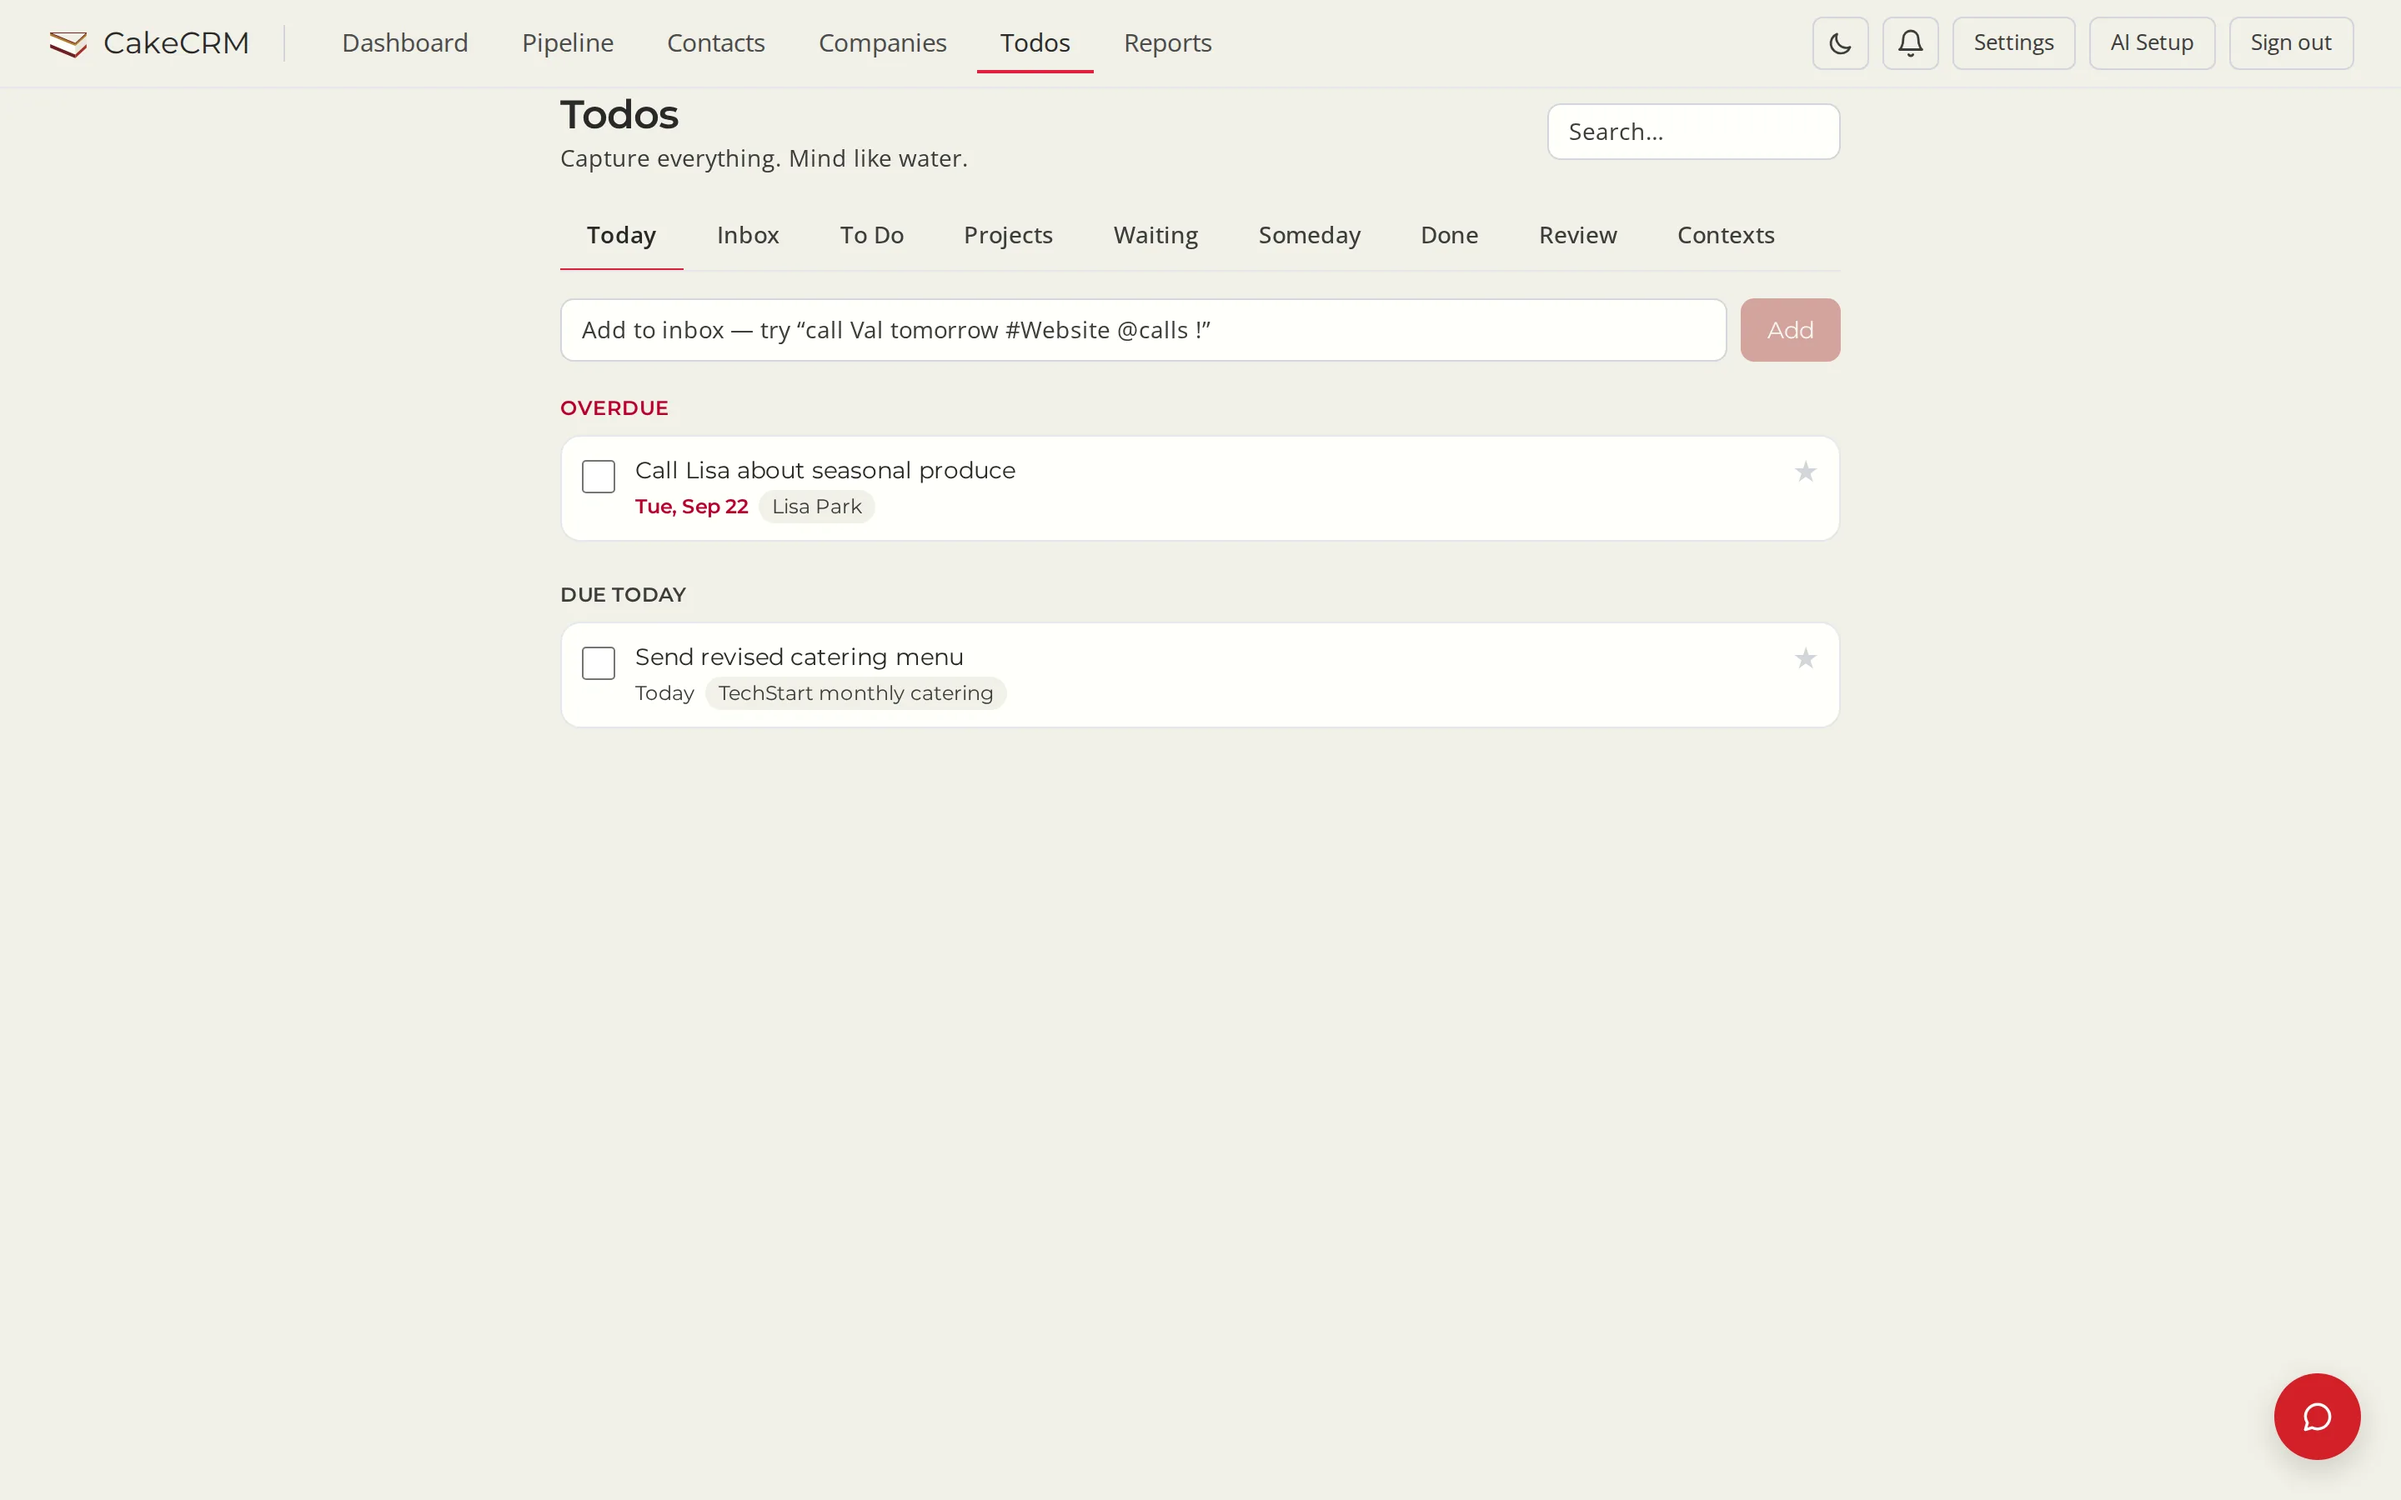
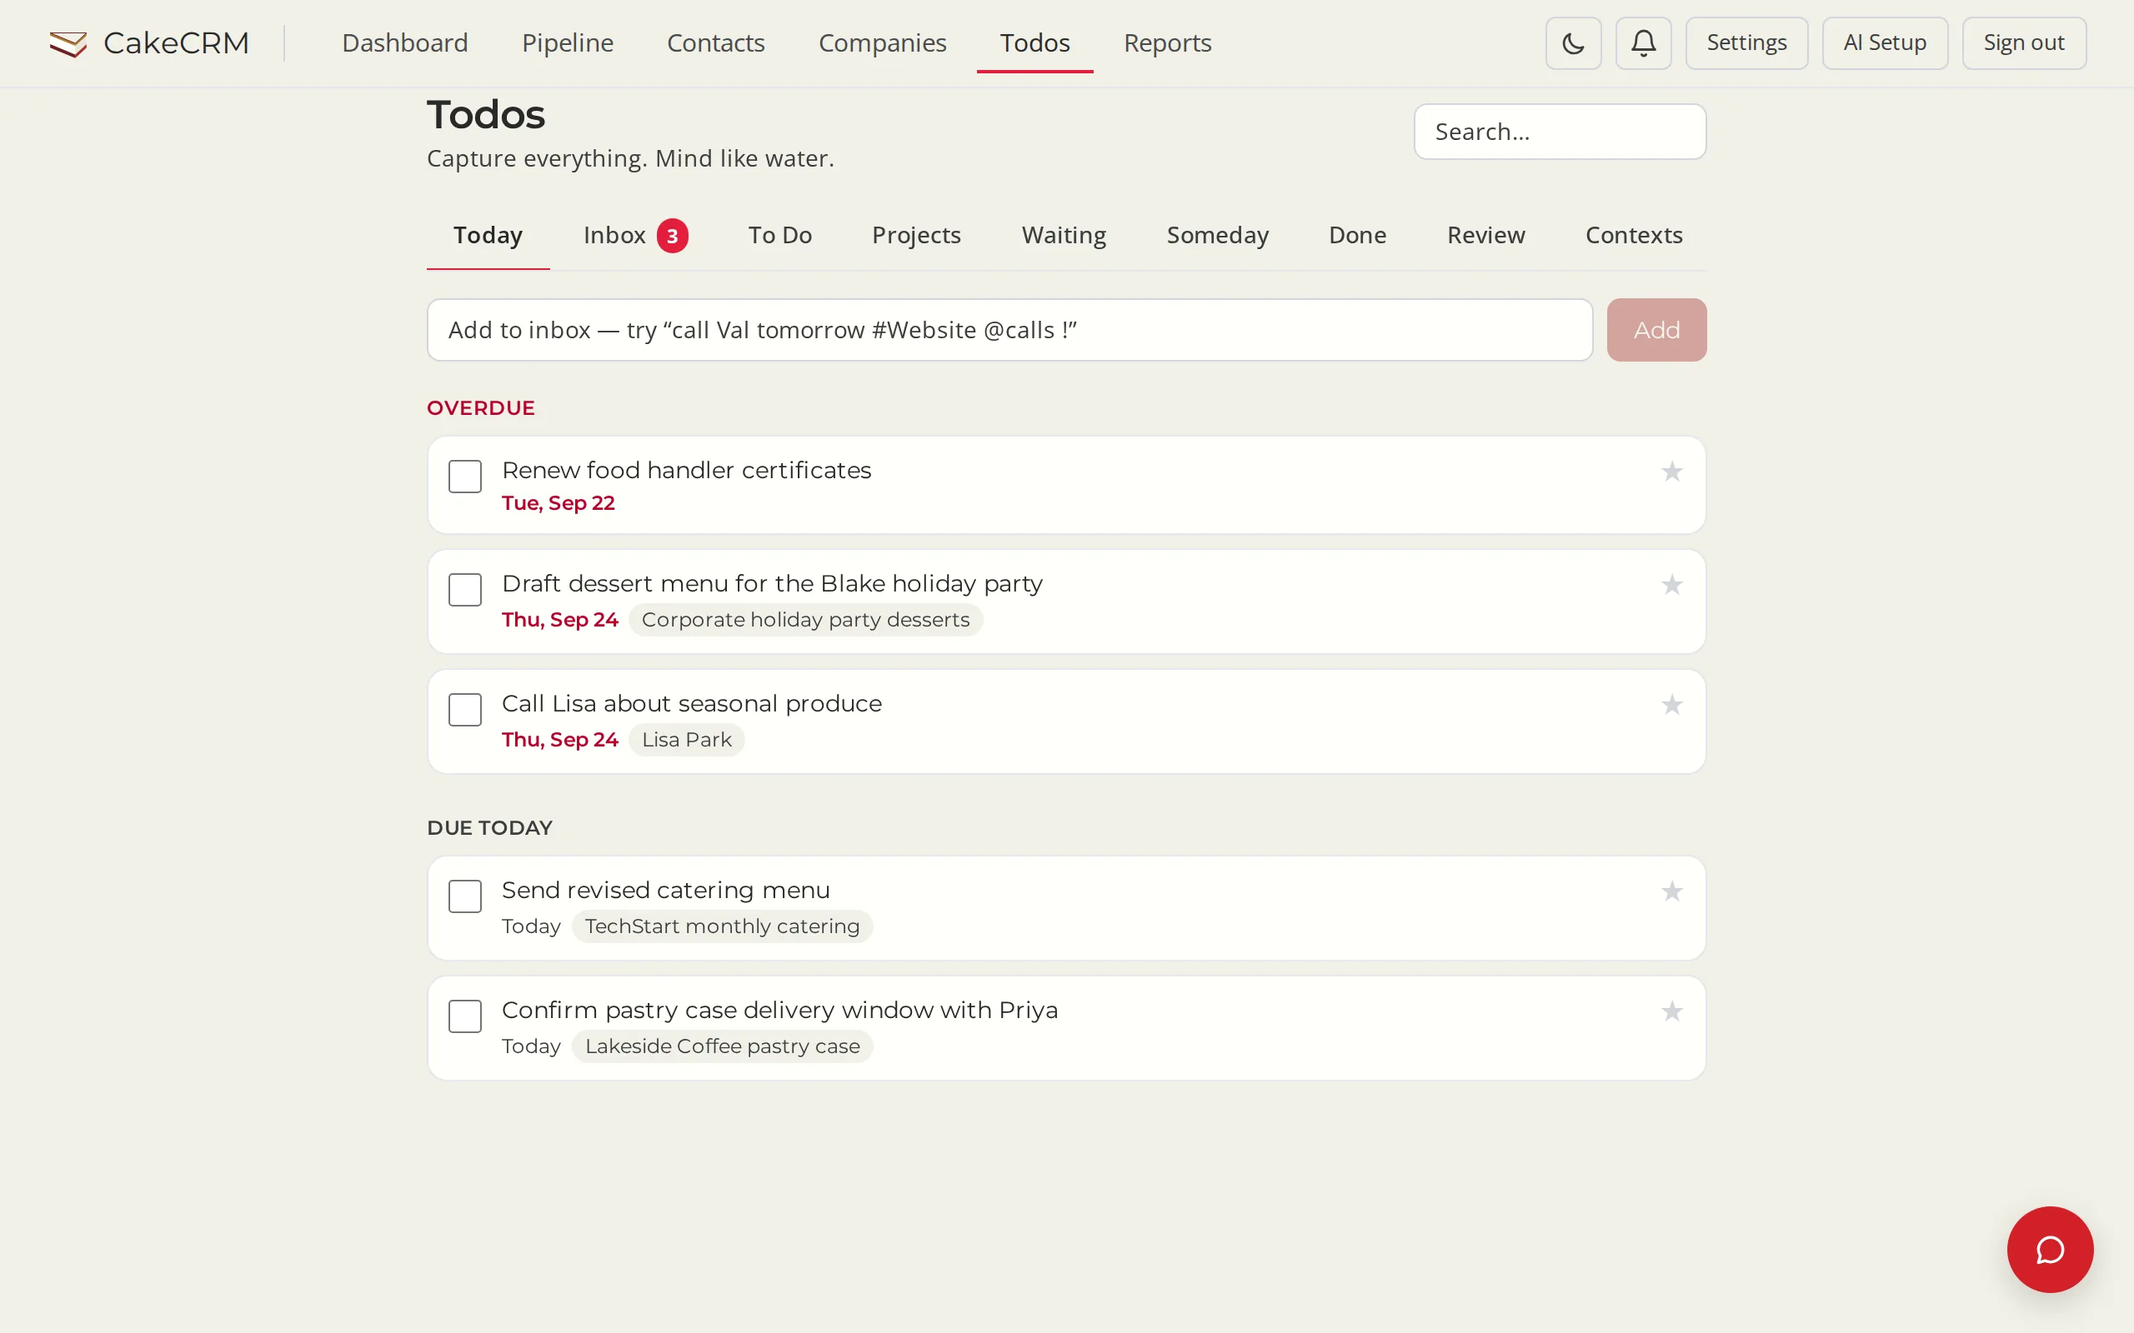
README screenshots: framed light and dark captures of the denser sample data
The old screenshots were mostly empty page: seven deals across a six-column
board, a Today list with nothing on it. They are re-shot on the #227/#228 seed
(four full columns, a hot deal gone quiet leading Today, three captures in the
inbox) and, for the README, framed in a browser window on the app's own page
ground in a light and a dark variant so GitHub's theme picks the right one.

- scripts/frame_readme_shots.py frames the website's 2x WebP masters and writes
  1x PNGs to docs/brand/readme/; the README selects between them with <picture>.
- The hero is the deal with Baker's answer beside it, shot at 1600x1000 so the
  drawer sits clear of the sheet; everything else is 1280x800.
- website/img/* are the same captures unframed (WebP at native 2x, PNG at 1x),
  with the width/height attributes and alt text updated to what they now show.
- AGENTS.md and docs/brand/README.md record the geometry and the regen step.

diff --git a/website/index.html b/website/index.html
@@ -67,7 +67,7 @@
       <figure class="frame">
         <picture>
           <source srcset="img/dashboard.webp" type="image/webp">
-          <img src="img/dashboard.png" width="1440" height="900" loading="lazy" alt="The CakeCRM dashboard: a Today panel listing an overdue call and a todo due today, above stat tiles for contacts, companies, pipeline value and overdue todos.">
+          <img src="img/dashboard.png" width="1280" height="800" loading="lazy" alt="The CakeCRM dashboard: a Today panel that leads with a hot deal gone quiet, then three overdue todos and one due today, above stat tiles for contacts, companies, pipeline value and overdue todos.">
         </picture>
       </figure>
     </div>
@@ -81,7 +81,7 @@
       <figure class="frame">
         <picture>
           <source srcset="img/pipeline.webp" type="image/webp">
-          <img src="img/pipeline.png" width="1440" height="900" loading="lazy" alt="The CakeCRM pipeline board: open deals as cards in Lead, Qualified, Proposal and Negotiation columns, each showing its value, probability, close date, lead score and last contact, with the Won and Lost stages hidden.">
+          <img src="img/pipeline.png" width="1280" height="800" loading="lazy" alt="The CakeCRM pipeline board: open deals as cards in Lead, Qualified, Proposal and Negotiation columns, each showing its value, probability, close date, lead score and last contact, with the Won and Lost stages hidden.">
         </picture>
       </figure>
     </div>
@@ -95,7 +95,7 @@
       <figure class="frame">
         <picture>
           <source srcset="img/deal.webp" type="image/webp">
-          <img src="img/deal.png" width="1440" height="900" loading="lazy" alt="A deal card open over the CakeCRM pipeline: title, value, stage, contact, company, owner, temperature, probability, lead score and expected close, then Call, Email, Meeting and Note buttons, the activity history and a note box.">
+          <img src="img/deal.png" width="1280" height="800" loading="lazy" alt="A deal card open over the CakeCRM pipeline: title, value, stage, contact, owner, temperature, probability, lead score and expected close, then Call, Email, Meeting and Note buttons, the activity history and a note box.">
         </picture>
       </figure>
     </div>
@@ -109,14 +109,14 @@
       <figure class="frame">
         <picture>
           <source srcset="img/todos-today.webp" type="image/webp">
-          <img src="img/todos-today.png" width="1440" height="900" loading="lazy" alt="The CakeCRM Todos page on its Today tab: an Overdue section with a call to make, a Due today section with a menu to send, each linked to its contact or deal, and an add-to-inbox box above them.">
+          <img src="img/todos-today.png" width="1280" height="800" loading="lazy" alt="The CakeCRM Todos page on its Today tab: an Overdue section with three todos, a Due today section with two more, each linked to its contact or deal, and an add-to-inbox box above them.">
         </picture>
         <figcaption>Today: what is overdue and what is due, nothing else.</figcaption>
       </figure>
       <figure class="frame">
         <picture>
           <source srcset="img/todos-inbox.webp" type="image/webp">
-          <img src="img/todos-inbox.png" width="1440" height="900" loading="lazy" alt="The CakeCRM Todos inbox showing one captured item on a triage card with three numbered steps: what kind of action, add detail, and set context, with two more items waiting below.">
+          <img src="img/todos-inbox.png" width="1280" height="800" loading="lazy" alt="The CakeCRM Todos inbox showing the first of three captured items on a triage card with three numbered steps: what kind of action, add detail, and set context.">
         </picture>
         <figcaption>Inbox: three numbered steps turn a captured thought into a next action.</figcaption>
       </figure>
@@ -131,7 +131,7 @@
       <figure class="frame">
         <picture>
           <source srcset="img/deal-baker.webp" type="image/webp">
-          <img src="img/deal-baker.png" width="1440" height="900" loading="lazy" alt="A deal open in CakeCRM with the Baker assistant drawer beside it, answering 'What should my next step be on this deal?' with the follow-up that is already scheduled, why it is the right move, and what to cover on that call.">
+          <img src="img/deal-baker.png" width="1600" height="1000" loading="lazy" alt="A deal open in CakeCRM with the Baker assistant drawer beside it, answering 'What should my next step be on this deal?' with the call to make today, what the CRM already knows about it, and the deal's health.">
         </picture>
       </figure>
     </div>

diff --git a/scripts/frame_readme_shots.py b/scripts/frame_readme_shots.py
@@ -1,0 +1,73 @@
+"""Frame demo screenshots for the README.
+
+Takes the raw 2x captures the website uses (light theme, launcher folded) and puts
+each one in a browser window with a soft shadow on the app's own page ground, in a
+light and a dark variant, so the README reads right under either GitHub theme.
+Output is a 1x palettised PNG per variant under docs/brand/readme/.
+
+    python scripts/frame_readme_shots.py website/img docs/brand/readme dashboard pipeline ...
+
+Colours are the light/dark `--color-ck-*` tokens from frontend/src/index.css; re-copy
+them here when the palette changes (the same rule website/style.css follows).
+"""
+import sys
+from pathlib import Path
+
+from PIL import Image, ImageDraw, ImageFilter
+
+GROUND = {"light": (0xF1, 0xF1, 0xE8), "dark": (0x1C, 0x1B, 0x19)}   # ck-bg
+CHROME = {"light": (0xE6, 0xE4, 0xDB), "dark": (0x2A, 0x28, 0x26)}   # title bar (dark: ck-card)
+LINE = {"light": (0xD1, 0xD5, 0xDB), "dark": (0x4A, 0x48, 0x45)}     # ck-line-strong
+DOTS = {"light": (0xB8, 0xB5, 0xAA), "dark": (0x5C, 0x59, 0x54)}
+SHADOW = {"light": (40, 30, 20, 70), "dark": (0, 0, 0, 150)}
+
+S = 2  # captures are 2x; the CSS-px constants below are scaled by S
+PAD, RADIUS, BAR, BORDER = 56, 12, 36, 1
+
+
+def _rounded_mask(size, r):
+    m = Image.new("L", size, 0)
+    ImageDraw.Draw(m).rounded_rectangle((0, 0, size[0] - 1, size[1] - 1), r, fill=255)
+    return m
+
+
+def frame(shot: Image.Image, theme: str) -> Image.Image:
+    shot = shot.convert("RGB")
+    w, h = shot.size
+    bar = BAR * S
+    win = Image.new("RGB", (w, h + bar), CHROME[theme])
+    d = ImageDraw.Draw(win)
+    for x in (18, 36, 54):
+        d.ellipse((x * S - 5 * S, bar // 2 - 5 * S, x * S + 5 * S, bar // 2 + 5 * S), fill=DOTS[theme])
+    d.line((0, bar - 1, w, bar - 1), fill=LINE[theme], width=S)
+    win.paste(shot, (0, bar))
+
+    r = RADIUS * S
+    bordered = Image.new("RGB", (w + 2 * BORDER * S, win.height + 2 * BORDER * S), LINE[theme])
+    bordered.paste(win, (BORDER * S, BORDER * S), _rounded_mask(win.size, r - BORDER * S))
+    bordered.putalpha(_rounded_mask(bordered.size, r))
+
+    pad = PAD * S
+    canvas = Image.new("RGBA", (bordered.width + 2 * pad, bordered.height + 2 * pad), GROUND[theme] + (255,))
+    shadow = Image.new("RGBA", canvas.size, (0, 0, 0, 0))
+    ImageDraw.Draw(shadow).rounded_rectangle(
+        (pad, pad + 14 * S, pad + bordered.width, pad + 14 * S + bordered.height), r, fill=SHADOW[theme])
+    canvas.alpha_composite(shadow.filter(ImageFilter.GaussianBlur(18 * S)))
+    canvas.alpha_composite(bordered, (pad, pad))
+    return canvas.convert("RGB")
+
+
+def main(src: Path, out: Path, names: list[str]) -> None:
+    out.mkdir(parents=True, exist_ok=True)
+    for name in names:
+        shot = Image.open(src / f"{name}.webp")  # the 2x master; the PNG beside it is 1x
+        for theme in ("light", "dark"):
+            img = frame(shot, theme)
+            img = img.resize((img.width // S, img.height // S), Image.LANCZOS)
+            target = out / f"{name}-{theme}.png"
+            img.convert("P", palette=Image.ADAPTIVE, colors=256).save(target, optimize=True)
+            print(target, img.size, target.stat().st_size // 1024, "KB")
+
+
+if __name__ == "__main__":
+    main(Path(sys.argv[1]), Path(sys.argv[2]), sys.argv[3:])

diff --git a/README.md b/README.md
@@ -16,16 +16,41 @@ with a sales assistant that works your pipeline for you.
 > issue on GitHub and say so.
 
 <p align="center">
-  <img src="website/img/deal-baker.png" alt="A deal open in CakeCRM with Baker's drawer beside it, answering what the next step should be, grounded in the deal's own notes and activity." width="900">
+  <picture>
+    <source media="(prefers-color-scheme: dark)" srcset="docs/brand/readme/deal-baker-dark.png">
+    <img src="docs/brand/readme/deal-baker-light.png" alt="A deal open in CakeCRM with Baker beside it, answering what the next step should be from the deal's own notes, activity and todos." width="900">
+  </picture>
 </p>
 
 <p align="center">
-  <img src="website/img/dashboard.png" alt="Dashboard: the Today list of what is overdue and due, above the pipeline number and the stats that matter." width="440">
-  <img src="website/img/pipeline.png" alt="Pipeline board: every open deal by stage, with value, close date and last contact on each card." width="440">
+  <picture>
+    <source media="(prefers-color-scheme: dark)" srcset="docs/brand/readme/dashboard-dark.png">
+    <img src="docs/brand/readme/dashboard-light.png" alt="Dashboard: the Today list leads with a hot deal that has gone quiet, then what is overdue and due, above the pipeline number and the stats that matter." width="440">
+  </picture>
+  <picture>
+    <source media="(prefers-color-scheme: dark)" srcset="docs/brand/readme/pipeline-dark.png">
+    <img src="docs/brand/readme/pipeline-light.png" alt="Pipeline board: every open deal by stage, with value, probability, close date and last contact on each card. Won and lost stay hidden until asked for." width="440">
+  </picture>
 </p>
 <p align="center">
-  <img src="website/img/todos-today.png" alt="Todos, Today tab: what is overdue and what is due, each linked to its contact or deal." width="440">
-  <img src="website/img/todos-inbox.png" alt="Todos, Inbox: the triage card that turns a captured thought into a next action in three numbered steps." width="440">
+  <picture>
+    <source media="(prefers-color-scheme: dark)" srcset="docs/brand/readme/deal-dark.png">
+    <img src="docs/brand/readme/deal-light.png" alt="A deal opened over the board: who, how much, how likely, when, the calls and emails so far, and a box for a note." width="440">
+  </picture>
+  <picture>
+    <source media="(prefers-color-scheme: dark)" srcset="docs/brand/readme/contacts-dark.png">
+    <img src="docs/brand/readme/contacts-light.png" alt="Contacts: one list with company, email, phone, last contact, status and lead score, sortable and filterable." width="440">
+  </picture>
+</p>
+<p align="center">
+  <picture>
+    <source media="(prefers-color-scheme: dark)" srcset="docs/brand/readme/todos-today-dark.png">
+    <img src="docs/brand/readme/todos-today-light.png" alt="Todos, Today tab: what is overdue and what is due, each linked to its contact or deal." width="440">
+  </picture>
+  <picture>
+    <source media="(prefers-color-scheme: dark)" srcset="docs/brand/readme/todos-inbox-dark.png">
+    <img src="docs/brand/readme/todos-inbox-light.png" alt="Todos, Inbox: the triage card that turns a captured thought into a next action in three numbered steps." width="440">
+  </picture>
 </p>
 
 ## The tour

diff --git a/AGENTS.md b/AGENTS.md
@@ -2857,10 +2857,16 @@ one-click in the cloud (the template provisions a PostgreSQL service).
   family here means adding its notice there in the same commit.
   **Screenshots come ONLY from the demo instance after a reset to the fictional sample
   data** (`POST /api/crm/clear-all` → `/load-sample-data`), shot with Playwright at
-  1440×900 light at 2× (WebP at 2880 wide, quality 82; PNG fallback downscaled to 1440
-  and palettised) — dashboard, pipeline board, a deal card over the board, and a deal with
-  the Baker drawer; the hero is a mark + wordmark lockup (see **Brand mark**), not a
-  screenshot, and the theme of the copy is simplicity. The genericization guard scans
+  1280×800 light at 2× with the launcher folded (WebP at native 2× width, quality 82; PNG
+  fallback at 1× and palettised) — dashboard, pipeline board, a deal card over the board,
+  the Todos Today and Inbox tabs, and a deal with the Baker drawer, that last one at
+  1600×1000 so the drawer sits beside the sheet instead of over it; the hero is a mark +
+  wordmark lockup (see **Brand mark**), not a screenshot, and the theme of the copy is
+  simplicity. **The README uses the same captures, framed**: `scripts/frame_readme_shots.py`
+  puts each WebP master in a browser window on the app's own page ground, light and dark,
+  and writes 1× PNGs to `docs/brand/readme/`, which the README picks between with
+  `<picture>`; re-run it whenever the site images are re-shot, and re-copy its colour
+  constants when the palette changes. The genericization guard scans
   text, not pixels, so a real prospect name in a PNG would be invisible to CI and
   permanent in history. Strip the example-data banner and the bell badge before shooting;
   the Baker shot uses a deal-scoped quick action, because an install-wide question can

diff --git a/docs/brand/README.md b/docs/brand/README.md
@@ -10,6 +10,7 @@ that cannot take a vector (app-store listings, README badges, chat avatars, soci
 | `logo-mark-128.png`, `logo-mark-256.png` | Avatars, README, docs. |
 | `logo-mark-180.png` | Apple touch icon size. |
 | `logo-mark-512.png`, `logo-mark-1024.png` | Store listings, social previews, print. |
+| `readme/*-{light,dark}.png` | The README screenshots: the website captures framed on the light and dark page ground by `scripts/frame_readme_shots.py`. Regenerate after any re-shoot. |
 | `lockup-light.png`, `lockup-dark.png` | Mark + "CakeCRM" wordmark (Montserrat 700) on the app's light and dark page colours, 2× resolution. |
 
 Colours are the app's own tokens from `frontend/src/index.css`: card and raised for the
